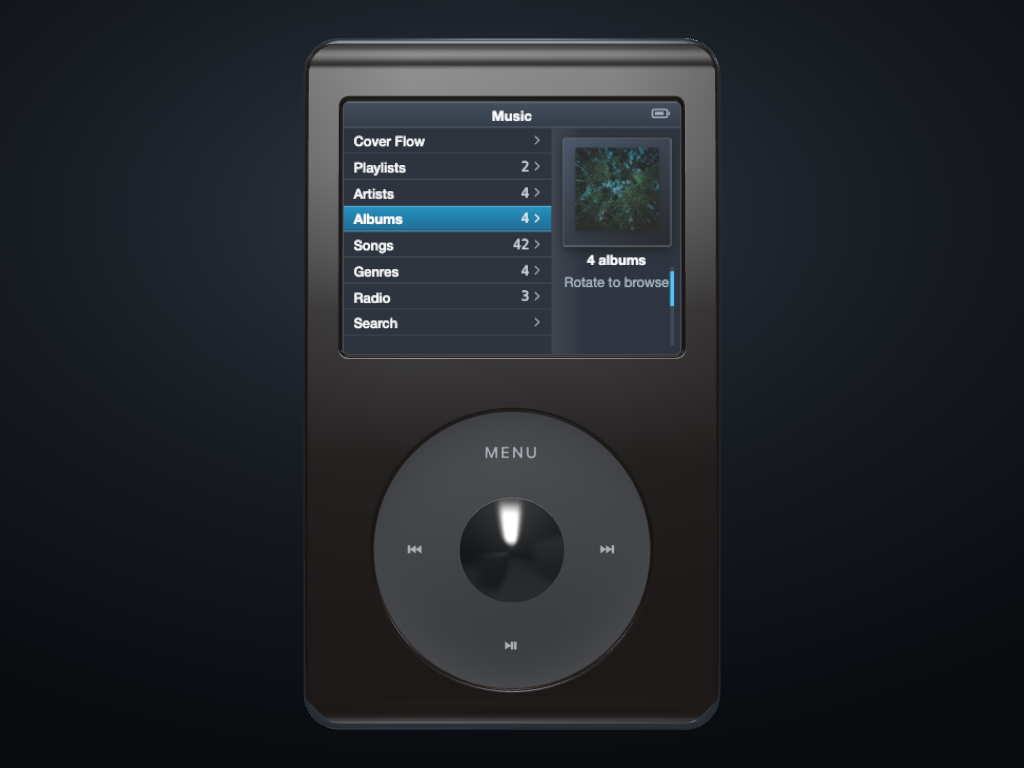
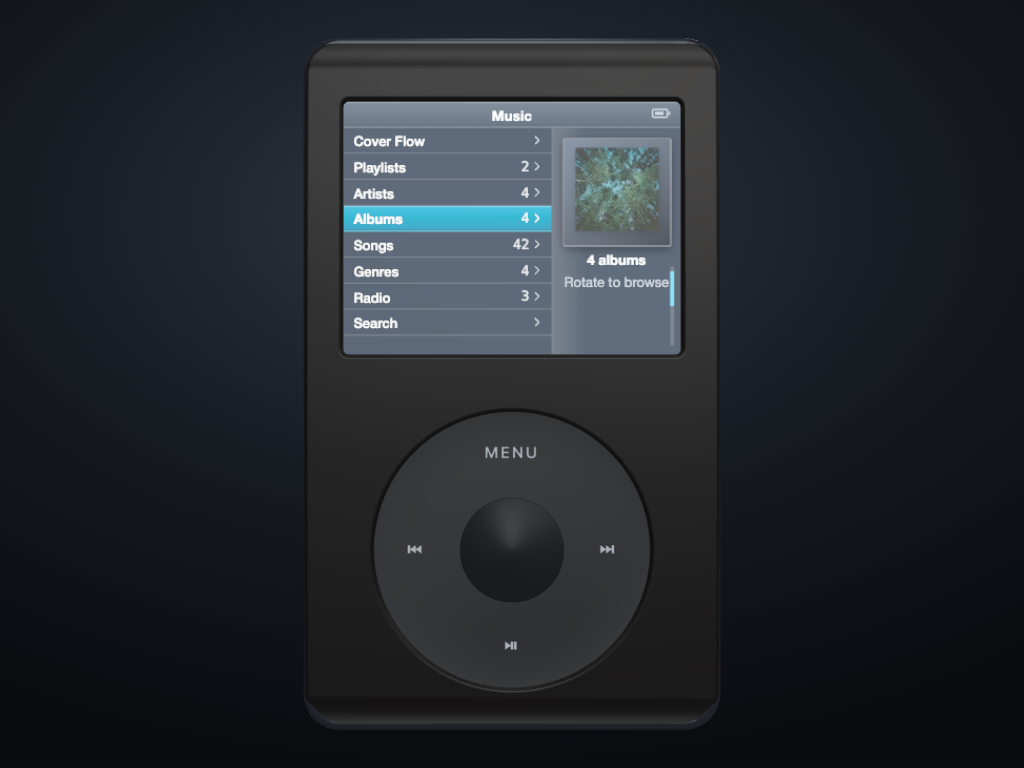
docs(device): record two-light true-3D evidence

Changed region(s): [[0.2812, 0.0312, 0.7188, 0.4688], [0.4688, 0.625, 0.5312, 0.7188], [0.375, 0.9375, 0.4375, 0.9688]]

diff --git a/docs/workstreams/002-implementation-spine/decisions/volumetric-device.md b/docs/workstreams/002-implementation-spine/decisions/volumetric-device.md
@@ -226,7 +226,7 @@ preview, mobile, edge, rear, and custom orientations all use measured fit.
 ## VD-20 · Studio reflections are world-space PBR inputs, not UV paint
 
 The environment is Three's `RoomEnvironment` filtered once through PMREM. Key
-and fill are broad `RectAreaLight` emitters, siblings of the rotating model.
+and kick are broad `RectAreaLight` emitters, siblings of the rotating model.
 There is no `vUv` edge glow, camera/view-matrix band, additive outgoing-light
 term, or pose-specific light. Black/white polycarbonate, wheel, clear cover,
 and steel keep separate physical parameters and read differently under the same
@@ -269,3 +269,62 @@ The scoped cross-package changes are exactly:
 
 No fallback or polyfill was added. T1 remains the main path as requested; T3/T4
 remain a later workstream.
+
+## VD-24 · Patch the installed physical-light chunk and fail closed on Three drift
+
+The old polycarbonate patch was source-shaped evidence against an obsolete
+Three diffuse line. Installed 0.185.1 no longer contains that expression, and
+the studio softboxes enter through `RE_Direct_RectArea_Physical`, a second path
+the patch did not touch. The visual result could therefore look acceptable
+while none of the claimed transport executed.
+
+The patch now expands and edits the installed
+`ShaderChunk.lights_physical_pars_fragment` at compile time, adding bounded
+transport to both ordinary direct lights and RectArea lights. It throws if the
+known direct splice is absent, and separately throws if an installed RectArea
+function no longer contains its splice. Tests consume the installed chunk and
+the real flagged-Chrome shader compile closes the integration half.
+
+## VD-25 · Acuity and native interaction share one HTMLTexture DOM tree
+
+A hidden 2D raster canvas can make a sharp texture, but moving the panel under
+that hidden canvas detaches native hit-testing and accessibility geometry from
+the LCD. Duplicating or cloning the UI would restore pixels at the cost of a
+second representation. Neither is acceptable.
+
+The final path keeps one panel as a direct `layoutsubtree` child of the WebGL
+canvas. Three `HTMLTexture` uploads it, and Three `InteractionManager` writes
+the same element's CSS `matrix3d`. The 272×204 panel content is scaled once into
+the canonical 320×240 authoring box before the browser snapshot; the texture is
+sRGB, linear-filtered, and mipmap-free. Browser tests at DPR 1/2/3 measure the
+rendered edge gradients, plant a 1px blur that fails the gate, compare semantic
+DOM bounds to the projected screen, click-focus the real application, and run
+keyboard navigation.
+
+## VD-26 · Preview pose drag is modified so it cannot steal product input
+
+The entire device orientation remains one group transform, but the preview
+stage previously captured every primary pointer before the click wheel could
+own it. Shift-drag now rotates the product model; ordinary pointer and touch
+input remain product input. Arrow keys and the preview orientation API retain
+keyboard, automation, accelerometer, and future flip seams without baking a
+camera assumption into the model.
+
+## VD-27 · The owner two-light rig is geometric, power-based, and explicit
+
+The accepted scene uses exactly two authored direct emitters. The key sits
+camera-right at a 28° viewer azimuth and descends 20° onto the device, inside
+the owner's 15–25° range. Its 620×420 model-unit rectangle is the softness
+control, and its 5.8M-lumen pre-exposure power is scaled by the rig's 0.96
+linear exposure. The kick sits below the horizon at −14° and camera-left at
+−18°, uses a 600×360 rectangle, and receives exactly 11% of the key's rendered
+luminous power. Three's installed `RectAreaLight` relation
+`power = intensity × width × height × π` is used to derive each intensity.
+
+The restrained RoomEnvironment remains at 0.34 only to preserve material
+identity between poses; it is not a third directional look. The model alone
+rotates. Tests reconstruct the key angle from its Cartesian position, recover
+both rendered powers from the mounted light props, and require the kick to stay
+subordinate. The black Select material now uses a broad, low-energy dielectric
+response rather than the former transmissive, low-roughness lens that produced
+an isolated vertical hotspot.

diff --git a/docs/workstreams/002-implementation-spine/evidence/volumetric-device-true3d.md b/docs/workstreams/002-implementation-spine/evidence/volumetric-device-true3d.md
@@ -19,12 +19,15 @@ bunx playwright test --config apps/web/tests/playwright.config.ts apps/web/tests
 ```
 
 Result: 1 passed. The test enables `CanvasDrawElement`, verifies T1 reaches
-`painted`, exercises the real DOM panel by keyboard, and captures:
+`painted`, compares native DOM and projected LCD bounds to under 2px, verifies
+native pointer focus and keyboard navigation, proves plain drag does not steal
+the click wheel, proves Shift-drag changes the stable model orientation, and
+captures:
 
 - `volumetric-device-true3d/true3d-front-black.png`
 - `volumetric-device-true3d/true3d-front-white.png`
 - `volumetric-device-true3d/true3d-quarter-black.png`
-- `volumetric-device-true3d/true3d-edge-white.png`
+- `volumetric-device-true3d/true3d-edge-black.png`
 - `volumetric-device-true3d/true3d-rear-steel.png`
 - `volumetric-device-true3d/true3d-top-controls.png`
 - `volumetric-device-true3d/true3d-mobile-375x812.png`
@@ -41,6 +44,26 @@ Every measured extent is at or below its limit. Required DPR results:
 
 All have mipmaps disabled and use sRGB texture data.
 
+The dedicated acuity command is:
+
+```sh
+bunx playwright test apps/web/tests/lcd-acuity.e2e.ts --config apps/web/tests/playwright.config.ts
+```
+
+Result: 3 passed, including the 1px blur mutation. Measured T1 LCD output:
+
+| DPR | p95 edge | p99 edge | p95 retained vs bare | p99 retained vs bare |
+| --- | ---: | ---: | ---: | ---: |
+| 1 | 78.63 | 140.22 | 57.59% | 59.37% |
+| 2 | 97.03 | 159.96 | 67.08% | 62.73% |
+| 3 | 102.98 | 163.32 | 67.66% | 64.36% |
+
+The route no longer contains the historical standalone/proxy LCD; the acuity
+suite now tests the real T1 HTMLTexture boundary only.
+`volumetric-device-true3d/lcd-metrics.json` contains the complete measurements;
+`lcd-dpr-{1,2,3}.png` and `lcd-blur-plant-dpr-2.png` preserve the rendered
+control and mutation evidence.
+
 ## Automated proof
 
 - `camera-fit.test.ts`: 375×812, 430×932, and 1024×768 across front,
@@ -51,8 +74,15 @@ All have mipmaps disabled and use sRGB texture data.
 - `physical-continuity.test.ts`: requires solid/crowned/rounded/cylindrical
   live geometry and rejects the old optical-profile consumption and view-locked
   shader escape.
-- `html-in-canvas.test.ts`: exact native 1×/2×/3× source grids, no mipmaps,
-  correct color space, and no second overlay plane.
+- `html-in-canvas.test.ts`: one native HTMLTexture DOM tree, exact 1×/2×/3×
+  source grids, no mipmaps, correct color space, InteractionManager geometry,
+  and no second overlay plane.
+- `materials.test.ts`: patches the installed Three direct and RectArea physical
+  lighting functions and fails closed on source drift.
+- `ViewerLitDeviceFrame.test.tsx`: reconstructs the key's Cartesian descent
+  angle (20°, required 15–25°), verifies top-right/below-horizon positions,
+  checks explicit softbox dimensions, and reconstructs the mounted key/kick
+  luminous powers to prove the kick remains exactly 11% and subordinate.
 - existing curved-shell tests retain manifold, smooth, thickness-preserving
   tessellation and finite continuous normals.
 
@@ -66,7 +96,7 @@ bun run build
 bun run gates
 ```
 
-Results: 11/11 TypeScript projects; lint clean; 989 tests passed; client and SSR
+Results: 11/11 TypeScript projects; lint clean; 991 tests passed; client and SSR
 builds complete; 16 automated gates passed, 0 failed. Manual U14/U15 remain.
 
 ## Asset and environment provenance
@@ -84,6 +114,7 @@ builds complete; 16 automated gates passed, 0 failed. Manual U14/U15 remain.
 
 ## Scoped cross-package changes
 
-`packages/composite` was touched only to keep the LCD on a single native-density
-texture plane and to forward camera safe padding. No fallback/polyfill was
-implemented.
+`packages/composite` was touched only to keep the LCD on one native HTMLTexture
+plane with matching DOM interaction geometry and to forward camera safe
+padding. `apps/web/vite.config.ts` was touched only to preserve explicit null
+source metadata in the browser verifier. No fallback/polyfill was implemented.

diff --git a/docs/workstreams/002-implementation-spine/diary/volumetric-device.md b/docs/workstreams/002-implementation-spine/diary/volumetric-device.md
@@ -196,7 +196,7 @@ longer inherits a desktop aspect box. The panel remains real DOM and responds
 to keyboard navigation after being composited.
 
 All wider gates that the earlier addendum reported blocked are green on this
-tree: 11/11 TypeScript projects, repo lint, 989 tests, production build, and 16
+tree: 11/11 TypeScript projects, repo lint, 991 tests, production build, and 16
 automated static gates. U14 and U15 remain correctly manual. The browser route
 is `http://localhost:3000/_spike/device`; the default is an uncluttered black
 three-quarter pose, with drag/keyboard rotation and external controls.
@@ -204,3 +204,53 @@ three-quarter pose, with drag/keyboard rotation and external controls.
 The evidence is in `evidence/volumetric-device-true3d/`. The earlier
 transmission-12 and proxy-LCD notes above are historical failure records, not
 the current architecture.
+
+## Tuesday, September 1, 2026 — strict-audit corrections
+
+Two implementation defects survived the first visual pass and were found by
+testing the mechanism instead of accepting the screenshot.
+
+First, the polycarbonate transport patch still searched for a physical-light
+line removed before installed Three 0.185.1, and it only knew the ordinary
+direct-light function while the studio uses `RectAreaLight`. The material
+therefore looked plausible while the intended bounded transport was dead. The
+repair patches the installed `ShaderChunk.lights_physical_pars_fragment`, covers
+both ordinary and area-light functions, and throws if either known splice point
+changes. The flagged browser compile is clean and the test consumes the
+installed chunk rather than a hand-written surrogate.
+
+Second, the first acuity repair made a sharp `CanvasTexture` by moving the live
+panel below a hidden raster canvas. That fixed pixels but broke the standing
+native-interaction thesis: the semantic panel no longer shared the projected
+LCD geometry. A nested-canvas experiment restored paint but applied geometry
+twice. The final path returns to Three's native `HTMLTexture` and
+`InteractionManager`: one live panel is the direct `layoutsubtree` child, its
+320×240 authoring box maps to the 272×204 LCD mesh, and the same element receives
+the per-pose `matrix3d`. It has no mipmaps, is sRGB, and uses linear filtering
+for fractional perspective samples. The DPR 1/2/3 browser gradient gate passes,
+and DOM bounds match the projected screen to under 2px.
+
+Preview rotation now requires Shift-drag. Plain pointer and touch input remain
+available to the product click wheel; arrow/Home/End controls and the external
+orientation API still exercise the stable whole-model transform. During the
+proof, the immutable-source health endpoint also exposed a null-coalescing bug
+that serialized an absent reviewed commit as an empty string. The Vite test
+health endpoint now preserves an explicit metadata `null`; this was a verifier
+repair, not a rendering change.
+
+## Tuesday, September 1, 2026 — owner two-light direction
+
+The owner's next-preview ruling replaced the inherited top-centre/fill values
+with a disciplined photographic rig. The first pass moved the key to
+camera-right at the required 20° descent and softened the old Select hotspot,
+but the rendered lower source still read as a band and the black front remained
+compressed. The second pass made the key larger and closer, reduced the kick
+from 18% to 11% of key power, broadened both emitters, restrained the PMREM room
+to 0.34, and brought the Select into the wheel's rough dielectric family.
+
+The rendered result has no blown centre-button stripe. The wide key describes
+the top crown and moves to the right rolled edge in the three-quarter pose; the
+lower source remains visible at the shell separation without lifting the whole
+black face. Black/white front, black three-quarter, black edge, rear, top, and
+375×812 mobile are captured from the same two world-fixed lights. The browser
+test still proves mobile containment and exact 1×/2×/3× LCD source grids.
